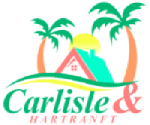
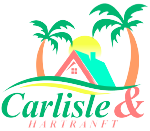
Updates

diff --git a/index.html b/index.html
@@ -16,7 +16,7 @@
 		<!-- <h1>
 			logo
 		</h1> -->
-		<img id="b1" src="./rr11.png" class="ceaspace" />
+		<img id="b1" src="./rr10.png" class="ceaspace" />
 		<nav id="navbar">
 			<ul>
 				<li><a href="./index.html" class="paddingat650 current">Carlisle & Hartranft</a></li>
@@ -27,8 +27,8 @@
 </header>
 <SECTION id="showcase">
 	<div class="container2">
-		<h1 id="indexshowcaseheader">Carlisle & Hartranft</h1>
-		<p id="indexshowcaretext">Let our Relocation Referral Specialists assist you at no cost!</p>
+		<!-- <h1 id="indexshowcaseheader">Carlisle & Hartranft</h1>
+		<p id="indexshowcaretext">Let our Relocation Referral Specialists assist you!</p> -->
 	</div>
 </SECTION>
 <section id="newsletter">
@@ -59,11 +59,10 @@
 	<section id="idmain">
 		<h1 class="dark centeringer">Carlisle & Hartranft</h1>
 		<p>Are you looking to relocate to the Sunshine State? Maybe you're not sure where to start. Our experienced real estate professionals at Carlisle & Hartranft LLC will match you with top agents and lenders in your dream destination, and help you with the first crucial steps in your dream home purchase, <b>all at no cost to you!</b></p>
-		<p>If you are serious about relocating to Florida, contact us using the form directly above, and continue reading to learn more about the free services we offer.</p>
+		<p>If you are serious about relocating to Florida, contact us using the form directly above, and continue reading to learn more about the services we offer.</p>
 		<p>We will not hound you to make a deal if you are not ready - these are no cost & no pressure services designed to make your life easier and help you to avoid some of the common pitfalls of buying and selling property. Don't go at it alone! Let our experience help you do this the right way.</p>
 		<p><b>Step 1</b> in your journey is to find your dream destination! Maybe you already have a place in mind or maybe you are still narrowing down your options.</p>
 		<p>If you are still having trouble choosing, we recommend you check out our friends at <a href="https://www.findyourflorida.net/">Find Your Florida</a>. Their interactive map in our opinion is the best tool for virtually exploring the many wonderful destinations the Sunshine State can/has to offer.</p>
-		<p>SAMPLE VID</p>
 		<p><b>Step 2</b> - this one is a big timesaver and will save you some headaches down the road - gather the following crucial documents and keep them available to you.</p>
 		<ul>
 			<li>Tax Returns</li>
@@ -98,19 +97,9 @@
 		<div class="clr"></div>
 		<p class="postformerbox">But wait! Our ability to assist you may not end there!</p>
 		<p><b>Step 7:</b> (Optional) If you need help selling your current property, we can help with that too! We will help you find a top listing agent in your area if needed to sell your property.</p>
-		<p class="worclas">Remember, we are here to help make your relocation as effortless as possible, and that means dealing with the right people. Contact us now for free assistance with your situation!</p>
+		<p class="worclas">Remember, we are here to help make your relocation as effortless as possible, and that means dealing with the right people. Contact us now for assistance with your situation!</p>
 	</section>
 	<aside id="sidebar">
-		<div class="blabg">
-			<p><b>Step 1</b> in your journey is to find your dream destination! Maybe you already have a place in mind or maybe you are still narrowing down your options.</p>
-			<p>If you are still having trouble choosing, we recommend you check out our friends at <a href="https://www.findyourflorida.net/">Find Your Florida</a>. Their interactive map in our opinion is the best tool for virtually exploring the many wonderful destinations the Sunshine State can/has to offer.</p>
-			<!-- <ul>
-				<li><a href="#"><img src="gcheck.png" alt="nawh">link to place</a></li>
-				<li><a href="./video.html"><img src="gcheck.png" alt="nawh">vidja</a></li>
-				<li><a href="./map.html"><img src="gcheck.png" alt="nawh">maepuh</a></li>
-				<li><a href="./contactus.html"><img src="gcheck.png" alt="nawh">design #2</a></li>
-			</ul> -->
-		</div>
 		<div class="whibg">
 			<a href="https://travel.usnews.com/rankings/best-florida-beaches/">
 				<img alt="sandwich" class="newsletter1" src="beach2.png"/>

diff --git a/css/main.css b/css/main.css
@@ -1,12 +1,13 @@
 body{
-	/* background-color: orange; */
+	background-color: beige;
 	color: #555;
 	font:16px/1.6em arial, helvetica, sans-serif;
 	margin:0;
 	padding:0;
 }
 header{
-	background: coral;
+	/* background: coral; */
+	background: url('../redswipe.png');
 	color: #fff;
 	min-height: 70px;
 	padding:0px 0px;
@@ -47,11 +48,12 @@ header nav{
 	padding: 0;
 }
 #navbar a{
-	color:#fff;
+	color:black;
 	text-decoration: none;
 	font-size: 16px;
 	padding-right: 25px;
 	text-transform: uppercase;
+	font-weight: bold;
 }
 #navbar .current{
 	color: red;
@@ -69,9 +71,11 @@ header h1{
 	width: 100%; 
 	min-height: 80vh;
 	max-height: 90%;
-	background: url('../pexels-photo-2594992.jpeg') center center;
+	background: url('../ccoral2.jpg') center center;
 	background-size: cover; /* or contain depending on what you want */
 	background-repeat: no-repeat;
+	background-position: 50% 80%;
+	border-bottom: #e8491d 3px solid;
 }
 #showcase .container2{
 	display: grid;
@@ -118,7 +122,8 @@ border-radius: 10px;
 
 #newsletter{
 	color: white;
-	background:#35424a;
+	/* background:#35424a; */
+	background: #ff9c65;
 }
 #newsletter form{
 	margin: auto;
@@ -220,13 +225,13 @@ border-radius: 10px;
 .formspreedoc form button{
 	margin-top: 18px;
 	margin-bottom: 8px;
-	border: 2px white solid;
-	color: white;
+	/* border: 2px white solid; */
+	color: black;
 	background-color: green;
 	font-weight: bold;
 	/* top, right, bottom, and left */
 	padding: 15px 25px 15px 25px;	
-	background-color: #aa5500;	
+	background-color: #f7ff49;	
 }
 .formspreedoc form div{
 	display: grid;
@@ -282,9 +287,11 @@ box-sizing: border-box;
 }
 .dark{
 	padding:15px;
-	background:#aa5500;
-	color:white;
+	background:#f7ff49;
+	color:black;
 	margin-bottom: 10px;
+	border: black 3px solid;
+	
 }
 .bgclr456 {
     background-color: lightskyblue;
@@ -292,10 +299,12 @@ box-sizing: border-box;
 #sidebar{
 float:right;
 width:30%;
-background: #333;
-color: #fff;
+background: #01ffcd;
+color: black;
 padding: 10px;
 box-sizing: border-box;
+border: black 3px solid;
+
 }
 .trboxerwq{
 	text-decoration: none;
@@ -307,6 +316,7 @@ box-sizing: border-box;
 }
 .alittleoffthetop{
 	margin-top: 0px;
+	color: black;
 }
 aside ul li a img{
 	width: 20px;
@@ -476,6 +486,9 @@ tr:nth-child(even) {
 .answerresponser{
 	padding-right: 35px;
 	padding-left: 35px;
+}
+.quotestyler{
+	background-color: white;
 }
 .quotestylerpbox{
     /* padding-right: 175px;
@@ -784,6 +797,10 @@ tr:nth-child(even) {
 	#navbar ul{
 		top: 0%;
 	}
+	#navbar a{
+		color: black;
+	}
+
 	.paddingat650{
 		padding-left: 15px;
 	}

diff --git a/faq.html b/faq.html
@@ -16,7 +16,7 @@
     <!-- <h1>
 			logo
 	</h1> -->
-	<img id="b1" src="./rr11.png" class="ceaspace" />
+	<img id="b1" src="./rr10.png" class="ceaspace" />
     <nav id="navbar">
         <ul>
             <li><a href="./index.html" class="paddingat650" >Carlisle & Hartranft</a></li>
@@ -37,33 +37,6 @@
     <p class="answerresponser bottompadderx">yatta yatta yatta yatta yatta yatta yatta yatta yatta yatta yatta yatta yatta yatta yatta yatta yatta yatta yatta yatta yatta yatta yatta yatta yatta yatta yatta yatta yatta yatta yatta yatta yatta yatta yatta yatta yatta yatta yatta yatta yatta yatta yatta yatta yatta yatta yatta yatta yatta yatta yatta yatta yatta yatta yatta yatta yatta yatta yatta yatta yatta yatta yatta yatta yatta yatta yatta yatta yatta yatta yatta yatta yatta yatta yatta yatta yatta yatta yatta yatta yatta yatta yatta yatta yatta yatta yatta yatta yatta</p>    
     <p><i>Q: obligation? A: no pressure. Q: make money? A: no cost to you! how long does it take? price? agent selection?</i></p>
     <p class="answerresponser">yatta yatta yatta yatta yatta yatta yatta yatta yatta yatta yatta yatta yatta yatta yatta yatta yatta yatta yatta yatta yatta yatta yatta yatta yatta yatta yatta yatta yatta yatta yatta yatta yatta yatta yatta yatta yatta yatta yatta yatta yatta yatta yatta yatta yatta yatta yatta yatta yatta yatta yatta yatta yatta yatta yatta yatta yatta yatta yatta yatta yatta yatta</p>
-</section>
-<section class="regioninfodemo">
-    <p class="infodemoheaders">More ways to provide links!</p>
-    
-        <section id="boxes3">
-	        <div class="container3">
-		        <div class="box1">
-			        <a href="./map.html"><img src="fff.png" alt="nawh1"></a>
-			        <h3>Title</h3>
-			        <p>Demo Text</p>
-                    <a href="https://www.hbo.com/">Demo Link</a>
-		        </div>
-		        <div class="box1">
-			        <a href="./video.html"><img src="rtty.png" alt="nawh1"></a>
-			        <h3>Title</h3>
-			        <p>Demo Text</p>
-                    <a href="https://www.hbo.com/">Demo Link</a>
-		        </div>
-		        <div class="box1">
-			        <a href="./index.html"><img src="rfff.png" alt="nawh1"></a>
-			        <h3>Title</h3>
-                    <p>Demo Text</p>
-                    <a href="https://www.hbo.com/">Demo Link</a>
-		        </div>
-	        </div>
-        </section>
-    <div class="clr"></div>
 </section>
 <footer id="footmain">
 	<section class="follower">

diff --git a/aboutus.html b/aboutus.html
@@ -15,7 +15,7 @@
     <!-- <h1>
 			logo
 		</h1> -->
-	<img id="b1" src="./rr11.png" class="ceaspace" />
+	<img id="b1" src="./rr10.png" class="ceaspace" />
     <nav id="navbar">
         <ul>
             <li><a href="./index.html" class="paddingat650" >Carlisle & Hartranft</a></li>
